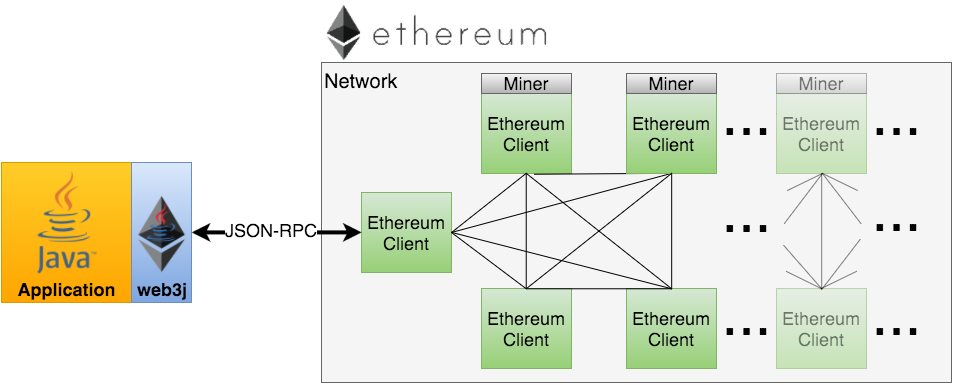
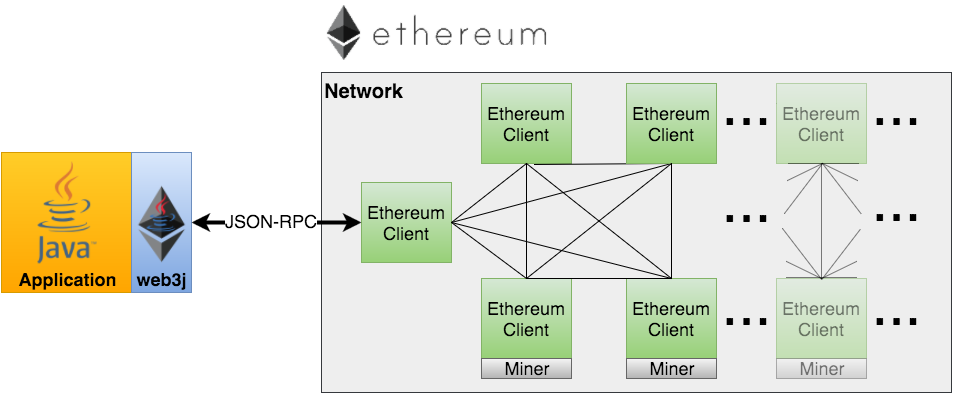
1. Added support for specifying Ethereum client versions when working with Infura. 2. Updated network diagram.

Changed region(s): [[0.0, 0.0623, 1.0, 0.9974], [0.7608, 0.5299, 0.8216, 0.6234]]

diff --git a/src/main/java/org/web3j/protocol/infura/CertificateManager.java b/src/main/java/org/web3j/protocol/infura/CertificateManager.java
@@ -1,0 +1,150 @@
+package org.web3j.protocol.infura;
+
+import javax.net.ssl.*;
+import java.io.File;
+import java.io.FileOutputStream;
+import java.io.IOException;
+import java.net.URI;
+import java.net.URISyntaxException;
+import java.security.*;
+import java.security.cert.CertificateException;
+import java.security.cert.X509Certificate;
+
+/**
+ * Certificate manager to simplify working with TLS endpoints.
+ */
+public class CertificateManager {
+
+    static File buildKeyStore(String url, char[] keyStorePassword) {
+        KeyStore keyStore;
+        try {
+            keyStore = KeyStore.getInstance(KeyStore.getDefaultType());
+            keyStore.load(null, keyStorePassword);
+
+            CertificateChainTrustManager certificateChainTrustManager =
+                    createCertificateChainTrustManager(keyStore);
+            URI endpoint = new URI(url);
+            SSLSocket sslSocket = createSslSocket(endpoint, certificateChainTrustManager);
+
+            if (!isTrustedEndPoint(sslSocket)) {
+                X509Certificate[] x509Certificates = certificateChainTrustManager.x509Certificates;
+                if (x509Certificates == null) {
+                    throw new RuntimeException("Unable to obtain x509 certificate from server");
+                }
+
+                for (int i = 0; i < x509Certificates.length; i++) {
+                    keyStore.setCertificateEntry(endpoint.getHost() + i, x509Certificates[i]);
+                }
+            }
+
+            SecureRandom random = new SecureRandom();
+            File keyFile = File.createTempFile("web3j-", "" + random.nextLong());
+
+            FileOutputStream fileOutputStream = new FileOutputStream(keyFile);
+            keyStore.store(fileOutputStream, keyStorePassword);
+            fileOutputStream.close();
+
+            deleteFileOnShutdown(keyFile);
+
+            return keyFile;
+
+        } catch (KeyStoreException e) {
+            throw new RuntimeException(e);
+        } catch (CertificateException e) {
+            throw new RuntimeException(e);
+        } catch (NoSuchAlgorithmException e) {
+            throw new RuntimeException(e);
+        } catch (IOException e) {
+            throw new RuntimeException(e);
+        } catch (KeyManagementException e) {
+            throw new RuntimeException(e);
+        } catch (URISyntaxException e) {
+            throw new RuntimeException(e);
+        }
+    }
+
+    private static CertificateChainTrustManager createCertificateChainTrustManager(
+            KeyStore keyStore) throws NoSuchAlgorithmException, KeyStoreException {
+
+        TrustManagerFactory trustManagerFactory =
+                TrustManagerFactory.getInstance(TrustManagerFactory.getDefaultAlgorithm());
+        trustManagerFactory.init(keyStore);
+        X509TrustManager defaultTrustManager =
+                (X509TrustManager) trustManagerFactory.getTrustManagers()[0];
+        return new CertificateChainTrustManager(defaultTrustManager);
+    }
+
+    private static SSLSocket createSslSocket(
+            URI endpoint, CertificateChainTrustManager certificateChainTrustManager)
+            throws NoSuchAlgorithmException, KeyManagementException, IOException,
+            URISyntaxException, KeyStoreException {
+
+        SSLContext context = SSLContext.getInstance("TLS");
+        context.init(null, new TrustManager[]{certificateChainTrustManager}, null);
+        SSLSocketFactory factory = context.getSocketFactory();
+
+        SSLSocket sslSocket = (SSLSocket) factory.createSocket(
+                endpoint.getHost(), 443);
+        sslSocket.setSoTimeout(10000);
+
+        return sslSocket;
+    }
+
+    private static boolean isTrustedEndPoint(SSLSocket socket) throws IOException {
+        try {
+            socket.startHandshake();
+            socket.close();
+            return true;
+        } catch (SSLException e) {
+            return false;
+        }
+    }
+
+    private static void deleteFileOnShutdown(File file) {
+        Runtime.getRuntime().addShutdownHook(new Thread() {
+            public void run() {
+                try {
+                    deleteTempFile(file);
+                } catch (IOException e) {
+                    throw new RuntimeException(e);
+                }
+            }
+        });
+    }
+
+    private static void deleteTempFile(File file) throws IOException {
+        if (file.exists() && !file.delete()) {
+            throw new RuntimeException("Unable to remove file: " + file.getCanonicalPath());
+        }
+    }
+
+    /**
+     * Based on:
+     * http://blogs.sun.com/andreas/resource/InstallCert.java
+     */
+    private static class CertificateChainTrustManager implements X509TrustManager {
+
+        private final X509TrustManager x509TrustManager;
+        private X509Certificate[] x509Certificates;
+
+        CertificateChainTrustManager(X509TrustManager x509TrustManager) {
+            this.x509TrustManager = x509TrustManager;
+        }
+
+        public X509Certificate[] getAcceptedIssuers() {
+            // Called by Java 7+ see http://infposs.blogspot.kr/2013/06/installcert-and-java-7.html
+            return new X509Certificate[0];
+        }
+
+        public void checkClientTrusted(X509Certificate[] chain, String authType)
+                throws CertificateException {
+            throw new UnsupportedOperationException();
+        }
+
+        public void checkServerTrusted(X509Certificate[] chain, String authType)
+                throws CertificateException {
+            this.x509Certificates = chain;
+            x509TrustManager.checkServerTrusted(chain, authType);
+        }
+    }
+}

diff --git a/src/main/java/org/web3j/protocol/infura/InfuraHttpService.java b/src/main/java/org/web3j/protocol/infura/InfuraHttpService.java
@@ -1,0 +1,100 @@
+package org.web3j.protocol.infura;
+
+import javax.net.ssl.*;
+import java.io.File;
+import java.io.IOException;
+import java.security.*;
+import java.security.cert.CertificateException;
+import java.util.List;
+
+import org.apache.http.Header;
+import org.apache.http.impl.client.CloseableHttpClient;
+import org.apache.http.impl.client.HttpClients;
+import org.apache.http.message.BasicHeader;
+import org.apache.http.ssl.SSLContexts;
+
+import org.web3j.protocol.http.HttpService;
+
+/**
+ * HttpService for working with <a href="https://infura.io/">Infura</a> clients.
+ */
+public class InfuraHttpService extends HttpService {
+
+    private static final String INFURA_ETHEREUM_PREFERRED_CLIENT =
+            "Infura-Ethereum-Preferred-Client";
+
+    private static final char[] TEMP_KEY_STORE_PASSWORD = "web3j runtime cert store".toCharArray();
+
+    private final Header clientVersionHeader;
+
+    public InfuraHttpService(String url, String clientVersion, boolean required) {
+        super(url);
+        setHttpClient(createTrustTlsHttpClient(url));
+        clientVersionHeader = buildHeader(clientVersion, required);
+    }
+
+    public InfuraHttpService(String url, String clientVersion) {
+        this(url, clientVersion, true);
+    }
+
+    @Override
+    protected void addHeaders(List<Header> headers) {
+        if (clientVersionHeader != null) {
+            headers.add(clientVersionHeader);
+        }
+    }
+
+    static Header buildHeader(String clientVersion, boolean required) {
+        if (clientVersion == null || clientVersion.equals("")) {
+            return null;
+        }
+
+        if (required) {
+            return new BasicHeader(INFURA_ETHEREUM_PREFERRED_CLIENT, clientVersion);
+        } else {
+            return new BasicHeader(
+                    INFURA_ETHEREUM_PREFERRED_CLIENT, clientVersion + "; required=false");
+        }
+    }
+
+    /**
+     * Create an {@link InfuraHttpService} instance with a local keystore that implicitly trusts
+     * the provided endpoint.
+     *
+     * This is achieved by creating a local temporary keystore file which we add the certificate
+     * of the endpoint to upon application startup.
+     *
+     * @param url we wish to connect to
+     * @return the file containing the keystore
+     * @throws UnrecoverableKeyException if keystore file cannot be loaded
+     * @throws NoSuchAlgorithmException if keystore file cannot be loaded
+     * @throws KeyStoreException if keystore file cannot be loaded
+     * @throws KeyManagementException if keystore file cannot be loaded
+     */
+    private static CloseableHttpClient createTrustTlsHttpClient(String url) {
+
+        File keyFile = CertificateManager.buildKeyStore(url, TEMP_KEY_STORE_PASSWORD);
+
+        SSLContext sslContext;
+        try {
+            sslContext = SSLContexts.custom()
+                    .loadTrustMaterial(keyFile, TEMP_KEY_STORE_PASSWORD)
+                    .build();
+        } catch (NoSuchAlgorithmException e) {
+            throw new RuntimeException(e);
+        } catch (KeyManagementException e) {
+            throw new RuntimeException(e);
+        } catch (KeyStoreException e) {
+            throw new RuntimeException(e);
+        } catch (CertificateException e) {
+            throw new RuntimeException(e);
+        } catch (IOException e) {
+            throw new RuntimeException(e);
+        }
+
+        return HttpClients.custom()
+                .setConnectionManagerShared(true)
+                .setSSLContext(sslContext)
+                .build();
+    }
+}

diff --git a/src/main/java/org/web3j/protocol/http/HttpService.java b/src/main/java/org/web3j/protocol/http/HttpService.java
@@ -2,9 +2,12 @@ package org.web3j.protocol.http;
 
 
 import java.io.IOException;
+import java.util.ArrayList;
+import java.util.List;
 import java.util.concurrent.CompletableFuture;
 
 import com.fasterxml.jackson.databind.ObjectMapper;
+import org.apache.http.Header;
 import org.apache.http.HttpEntity;
 import org.apache.http.client.ClientProtocolException;
 import org.apache.http.client.ResponseHandler;
@@ -12,6 +15,7 @@ import org.apache.http.client.methods.HttpPost;
 import org.apache.http.entity.ByteArrayEntity;
 import org.apache.http.impl.client.CloseableHttpClient;
 import org.apache.http.impl.client.HttpClients;
+import org.apache.http.message.BasicHeader;
 
 import org.web3j.protocol.Web3jService;
 import org.web3j.protocol.ObjectMapperFactory;
@@ -25,23 +29,26 @@ public class HttpService implements Web3jService {
 
     public static final String DEFAULT_URL = "http://localhost:8545/";
 
-    private CloseableHttpClient httpClient =
-            HttpClients.custom().setConnectionManagerShared(true).build();
+    private CloseableHttpClient httpClient;
 
-    private ObjectMapper objectMapper = ObjectMapperFactory.getObjectMapper();
+    private final ObjectMapper objectMapper = ObjectMapperFactory.getObjectMapper();
 
     private final String url;
 
-    public HttpService() {
-        this.url = DEFAULT_URL;
+    public HttpService(String url, CloseableHttpClient httpClient) {
+        this.url = url;
+        this.httpClient = httpClient;
     }
 
     public HttpService(String url) {
-        this.url = url;
+        this(url, HttpClients.custom().setConnectionManagerShared(true).build());
     }
 
-    public HttpService(String url, CloseableHttpClient httpClient) {
-        this.url = url;
+    public HttpService() {
+        this(DEFAULT_URL);
+    }
+
+    protected void setHttpClient(CloseableHttpClient httpClient) {
         this.httpClient = httpClient;
     }
 
@@ -53,7 +60,8 @@ public class HttpService implements Web3jService {
 
         HttpPost httpPost = new HttpPost(this.url);
         httpPost.setEntity(new ByteArrayEntity(payload));
-        httpPost.setHeader("Content-Type", "application/json; charset=UTF-8");
+        Header[] headers = buildHeaders();
+        httpPost.setHeaders(headers);
 
         ResponseHandler<T> responseHandler = getResponseHandler(responseType);
         try {
@@ -62,6 +70,15 @@ public class HttpService implements Web3jService {
             httpClient.close();
         }
     }
+
+    private Header[] buildHeaders() {
+        List<Header> headers = new ArrayList<>();
+        headers.add(new BasicHeader("Content-Type", "application/json; charset=UTF-8"));
+        addHeaders(headers);
+        return headers.toArray(new Header[0]);
+    }
+
+    protected void addHeaders(List<Header> headers) { }
 
     public <T> ResponseHandler<T> getResponseHandler(Class<T> type) {
         return response -> {

diff --git a/src/test/java/org/web3j/protocol/infura/InfuraHttpServiceTest.java b/src/test/java/org/web3j/protocol/infura/InfuraHttpServiceTest.java
@@ -1,0 +1,29 @@
+package org.web3j.protocol.infura;
+
+
+import org.apache.http.message.BasicHeader;
+import org.junit.Test;
+
+import static org.hamcrest.core.Is.is;
+import static org.junit.Assert.assertNull;
+import static org.junit.Assert.assertThat;
+import static org.web3j.protocol.infura.InfuraHttpService.buildHeader;
+
+public class InfuraHttpServiceTest {
+
+    @Test
+    public void testBuildHeader() {
+        assertNull(buildHeader("", false));
+        assertNull(buildHeader(null, false));
+
+        assertThat(buildHeader("geth 1.4.19", true).toString(),
+                is(new BasicHeader(
+                        "Infura-Ethereum-Preferred-Client",
+                        "geth 1.4.19").toString()));
+
+        assertThat(buildHeader("geth 1.4.19", false).toString(),
+                is(new BasicHeader(
+                        "Infura-Ethereum-Preferred-Client",
+                        "geth 1.4.19; required=false").toString()));
+    }
+}
